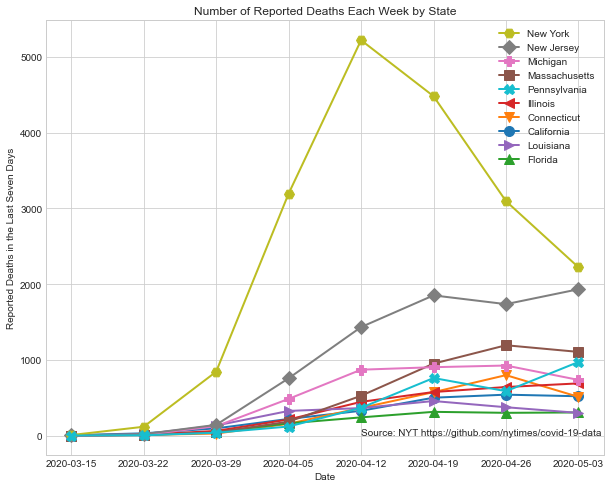
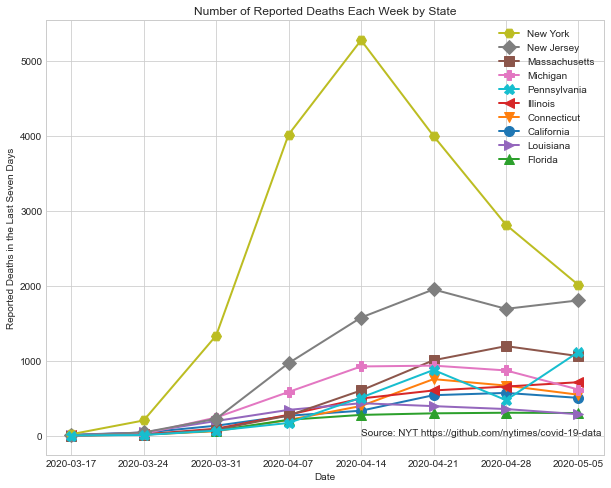
update with 5/5 data

diff --git a/covid.py b/covid.py
@@ -100,8 +100,6 @@ def plot_over_time(
         ms=10,
     )
 
-    # plt.xticks(ticks=np.arange(n_date), labels=reversed(date_list))
-
     # Make legend
     patches, labels = ax.get_legend_handles_labels()
     patches_dict = dict(zip(labels, patches))

diff --git a/README.md b/README.md
@@ -1,6 +1,6 @@
 # Coronavirus in the U.S.
 
-Updated with 5/3 data
+Updated with 5/5 data
 
 ## Counties with the most deaths
 
